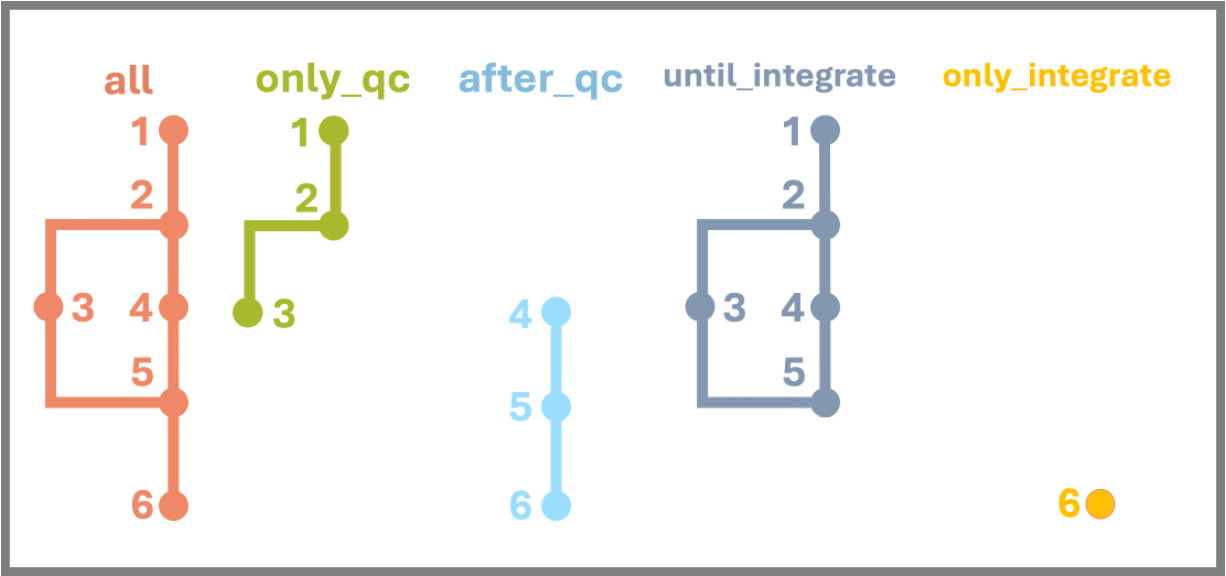
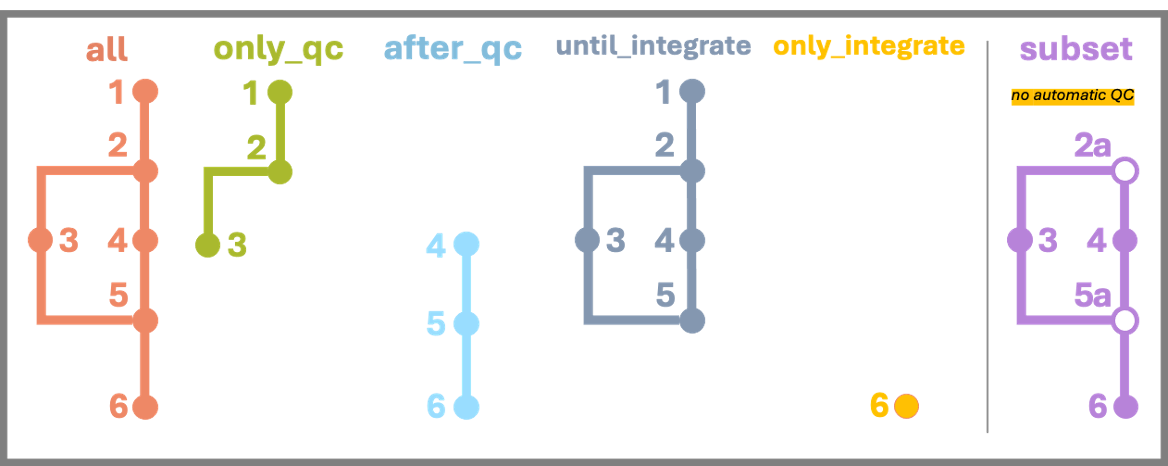
Update README

Changed region(s): [[0.0, 0.0, 1.0, 0.9914], [0.3699, 0.4807, 0.4623, 0.9013], [0.7397, 0.8412, 0.8014, 0.9013]]

diff --git a/README.md b/README.md
@@ -8,7 +8,7 @@ The recommended way to use nextflow is to run it in a screen session. These step
 
 1. Start a screen session: `screen -S nf_run1`
 2. Start a small interactive job for nextflow: `bsub -G cellgeni -n1 -R"span[hosts=1]" -Is -q long -R"select[mem>2000] rusage[mem=2000]" -M2000 bash`
-3. Modify one of RESUME scripts (pre-made Nextflow run scripts)
+3. Modify one of RESUME scripts in examples folder (pre-made Nextflow run scripts)
 4. Run the RESUME scripts you modified: `./RESUME-scautoqc-all`
 5. You can leave your screen session and let it run in the background: `Ctrl+A, D`
 
@@ -16,15 +16,22 @@ The recommended way to use nextflow is to run it in a screen session. These step
 
 * `main.nf` - the Nextflow pipeline that executes scAutoQC pipeline.
 * `nextflow.config` - the configuration script that allows the processes to be submitted to IBM LSF on Sanger's HPC and ensures correct environment is set via singularity container (this is an absolute path). Global default parameters are also set in this file and some contain absolute paths.
-* `RESUME-scautoqc-all` - an example run script that executes the whole pipeline.
-* `RESUME-scautoqc-afterqc` - an example run script that executes the pipeline after run_qc and find_doublets steps.
-* `RESUME-scautoqc-onlyqc` - an example run script that executes the pipeline after until pooling step.
-* `bin/gather_matrices.py` - a Python script that gathers matrices from STARsolo, Velocyto and Cellbender outputs (used in step 1).
-* `bin/qc.py` - a Python script that runs automatic QC workflow (used in step 2).
-* `bin/flag_doublet.py` - a Python script that runs scrublet to find doublets (used in step 3).
-* `bin/pool_all.py` - a Python script that combines all of the output objects after QC step (used in step 4).
-* `bin/add_scrublet_meta.py` - a Python script that adds scrublet scores (and metadata if available) (used in step 5).
-* `bin/integration.py` - a Python script that runs scVI integration (used in step 6).
+* `examples/` - a folder that includes pre-made Nextflow run scripts for each workflow:
+  * `RESUME-scautoqc-all` 
+  * `RESUME-scautoqc-onlyqc`
+  * `RESUME-scautoqc-afterqc`
+  * `RESUME-scautoqc-untilintegrate`
+  * `RESUME-scautoqc-onlyintegrate`
+  * `RESUME-scautoqc-subset` 
+* `bin/` - a folder that includes Python scripts used in the pipeline:
+  * `gather_matrices.py` - gathers matrices from STARsolo, Velocyto and Cellbender outputs (used in step 1).
+  * `qc.py` - runs automatic QC workflow (used in step 2).
+  * `subset.py` - subsets the input object (used in step 2a).
+  * `flag_doublet.py` - runs scrublet to find doublets (used in step 3).
+  * `pool_all.py` - combines all of the output objects after QC step (used in step 4).
+  * `add_scrublet_meta.py` - adds scrublet scores (and metadata if available) (used in step 5).
+  * `add_scrublet_meta_basic.py` - adds scrubles scores but doesn't remove any cells or samples (used in 5a).
+  * `integration.py` - runs scVI integration (used in step 6).
 * `genes_list/` - a folder that includes cell cycle, immunoglobulin and T cell receptor genes.
 * `Dockerfile` - a dockerfile to reproduce the environment used to run the pipeline.
 
@@ -192,6 +199,8 @@ This step requires three inputs:
 
 `gather_matrices` step combines the matrices from three inputs into one h5ad object with multiple layers for each sample: raw, spliced, unspliced, ambiguous (only raw layer is used if "GeneFull" mode is specified). Main expression matrix, cell and gene metadata are retrieved from Cellbender output. Raw matrix is retrieved from the expression matrix of STARsolo output folder named Gene. Spliced, unspliced and ambiguous matrices are all retrieved from the expression matrices of STARsolo output folder named Velocyto.
 
+This step can also use Cell Ranger inputs if `cr_prefix` option is provided instead of `ss_prefix` option, however this won't include Velocyto outputs.
+
 This step produces:  
 * ***[output 1]:*** h5ad object with different layers
 
@@ -281,19 +290,6 @@ This step produces:
 This step requires the h5ad output from the `pool_all` step and the scrublet CSV outputs from the `find_doublets` step.
 
 The `add_metadata_basic` step is also exclusive to the `subset` mode and replaces the `add_metadata` step from the main pipeline. The key differences are that it does not perform QC scoring per sample and does not remove any cells or samples.
-
-
-## Future plans
-
-### Add run_cellbender process
-
-* Current version of pipeline assumes that the Cellbender outputs exist. 
-* This addition will allow the pipeline to run Cellbender if the inputs do not exist.
-
-### Smart memory allocation
-
-* This addition will estimate the average memory needed for pool_all step, so it won't need to try multiple times until it runs well.
-
 
 ## Original workflow scheme
 

diff --git a/CHANGELOG.md b/CHANGELOG.md
@@ -1,12 +1,29 @@
 ## Changelog
 
+### 25-091
+This update introduces a new workflow and multiple enhancements based on user feedback:
+
+* Added a new workflow:
+  * `subset` workflow: Enables running the pipeline by subsetting objects using predefined cutoffs instead of the automatic QC workflow (steps 2a-3-4-5a). More details are available in the [README](README.md#Different-steps-for-`subset`-mode).
+* Added support for Cell Ranger outputs in addition to STARsolo.
+* Improvements in nextflow pipeline:
+  * Updated the Singularity image for better compatibility.
+  * Renamed certain output files for clarity.
+  * Optimised the RESUME functionality to improve reliability.
+  * Introduced smart memory allocation for the `pool_all` and `add_metadata` steps based on input size.
+  * Optimised resource allocation for other processes.
+  * Enabled the pipeline to work seamlessly with symbolic links in the input.
+* Optimisations in scripts:
+  * Removed unused lines, characters, and packages for cleaner code.
+  * Fixed hardcoded paths to improve flexibility.
+  * Optimised memory usage in the `pool_all` process.
+
 ### 25-064
 * Added two new workflows:
   * `until_integrate` workflow makes it easier to run the steps until integration (1-2-3-4-5)
   * `only_integrate` workflow makes it easier to run the integration step only (6)
 * Improvements and changes in scripts:
   * Folder names in the outputs were renamed.
-
 
 ### 24-143
 * <ins>**New workflow:**</ins> `only_qc`
